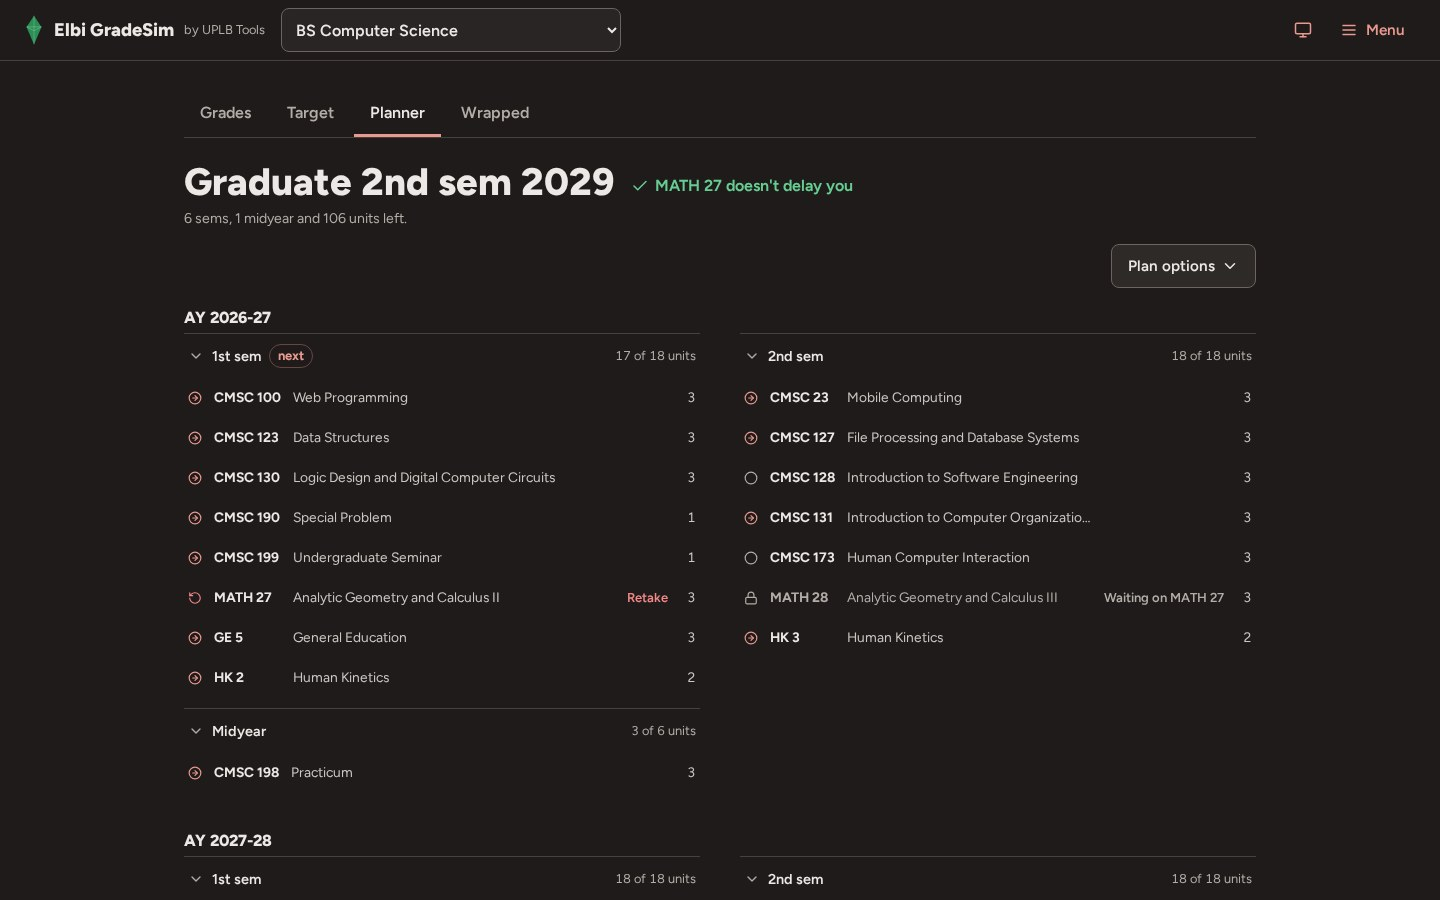
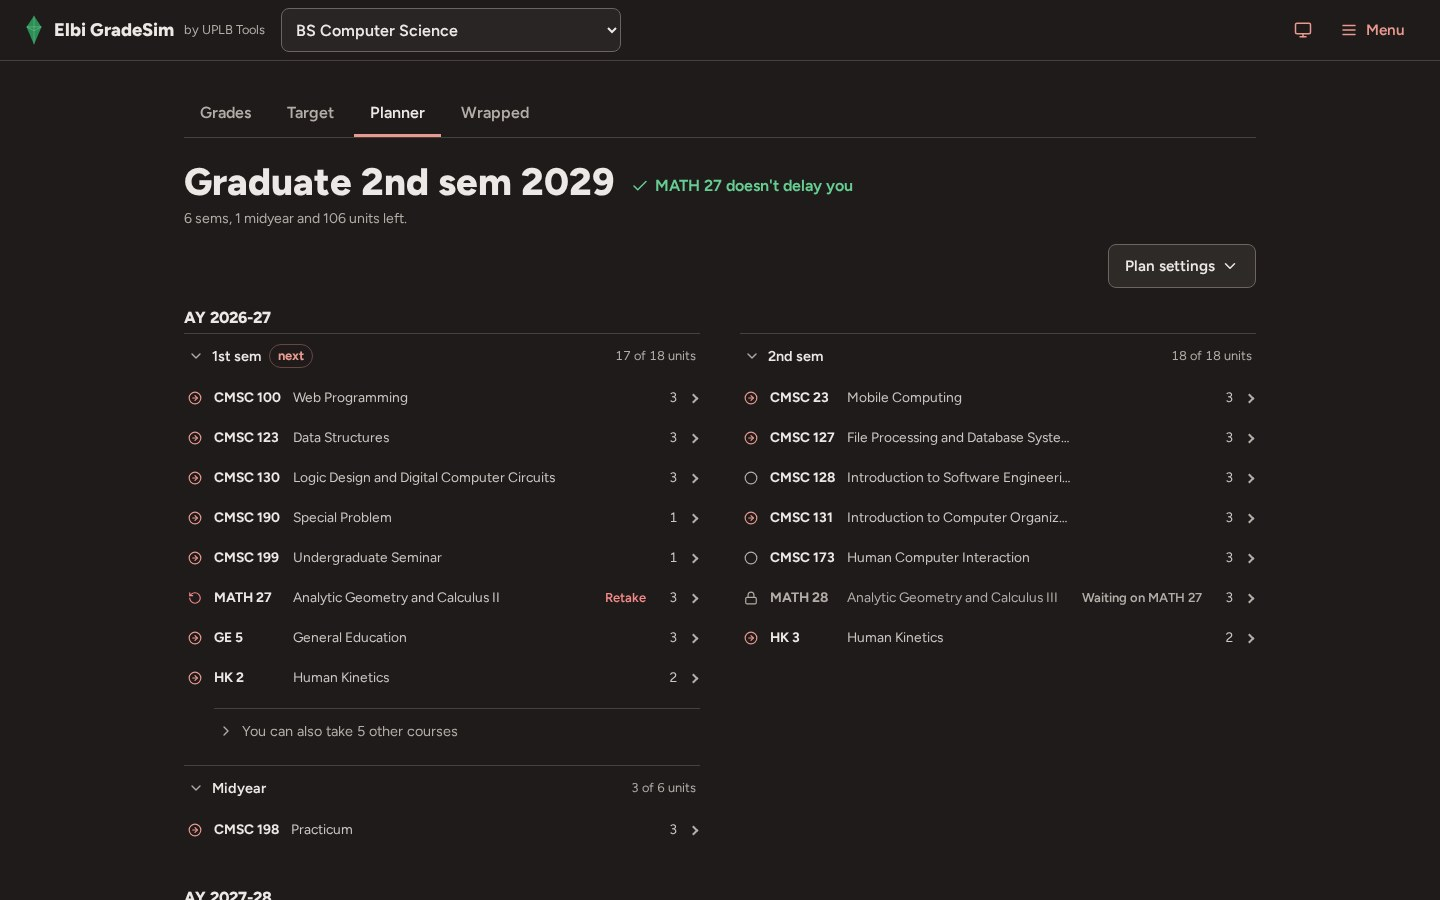
feat(welcome): a landing under the start buttons
- four sections show the Grades tab, the Target tab, the planner and a Wrapped card, each with a heading and one line
- the screenshots are phone-width crops, so they read on a phone and sit beside the text from 720px
- "Add my grades" at the end goes back to the start buttons
- the planner screenshots are retaken with the row chevrons

diff --git a/src/lib/components/Welcome.svelte b/src/lib/components/Welcome.svelte
@@ -23,7 +23,7 @@
 
 <div class="welcome wrap">
 	<div class="hero">
-		<div class="copy">
+		<div class="copy" id="start">
 			<h1>Your GWA, Latin honors and graduation plan</h1>
 			<p class="lede">GradeSim computes your GWA the way UPLB does and plans the sems you have left.</p>
 
@@ -75,6 +75,47 @@
 			<GradeEditor />
 		</section>
 	{/if}
+
+	<div class="features">
+		<section class="feature">
+			<div>
+				<h2>Your GWA, counted the UPLB way</h2>
+				<p>GradeSim weighs each grade by its units, leaves out HK and NSTP, and shows the GWA of every sem.</p>
+			</div>
+			<figure>
+				<ThemedShot name="grades-phone" alt="The Grades tab. The GWA is 1.9773, and the 1st sem of AY 2024-25 lists four courses with their grades." width={680} height={1040} />
+			</figure>
+		</section>
+		<section class="feature">
+			<div>
+				<h2>The grades you need for honors</h2>
+				<p>Pick summa, magna, cum laude or your own target. GradeSim tells you the average you need on the units you have left.</p>
+			</div>
+			<figure>
+				<ThemedShot name="target-phone" alt="The Target tab. Magna cum laude is picked, and the average needed on the 100 units left is 1.28." width={680} height={986} />
+			</figure>
+		</section>
+		<section class="feature">
+			<div>
+				<h2>A plan for the sems you have left</h2>
+				<p>The planner puts each course in the earliest sem its prerequisites and AMIS offerings allow. It shows what a failed course or a full section does to your graduation.</p>
+			</div>
+			<figure>
+				<ThemedShot name="planner-phone" alt="The planner. Graduation is the 2nd sem of 2029, and the next sem lists six courses with the retake of MATH 27." width={680} height={1222} />
+			</figure>
+		</section>
+		<section class="feature">
+			<div>
+				<h2>A card for your story</h2>
+				<p>Wrapped draws your GWA and your best sem on a card you can save and post.</p>
+			</div>
+			<figure>
+				<img class="card-shot" src="/screenshots/wrapped-card.jpg" alt="A Wrapped card. A tin on a picnic cloth holds an ID card and a GWA of 1.9773 with the words Honor roll." width="616" height="1095" loading="lazy" decoding="async" />
+			</figure>
+		</section>
+	</div>
+
+	<p class="again"><a class="btn btn-secondary btn-lg" href="#start">Add my grades</a></p>
 </div>
 
 <style>
@@ -176,6 +217,74 @@
 	@media (max-width: 719px) {
 		.shot {
 			display: none;
+		}
+	}
+
+	.features {
+		display: grid;
+		gap: 56px;
+		margin-top: 72px;
+	}
+
+	.feature {
+		display: grid;
+		gap: 20px;
+		align-items: center;
+	}
+
+	.feature h2 {
+		font-size: clamp(1.3rem, 1rem + 1.4vw, 1.75rem);
+		max-width: 22ch;
+		text-wrap: balance;
+	}
+
+	.feature p {
+		margin-top: 10px;
+		max-width: 46ch;
+	}
+
+	.feature figure {
+		margin: 0;
+		width: 100%;
+		max-width: 340px;
+	}
+
+	.card-shot {
+		display: block;
+		width: 100%;
+		height: auto;
+		border-radius: var(--radius-lg);
+	}
+
+	.again {
+		margin: 56px 0 24px;
+	}
+
+	.copy {
+		scroll-margin-top: 88px;
+	}
+
+	@media (min-width: 720px) {
+		.features {
+			gap: 88px;
+			margin-top: 104px;
+		}
+
+		.feature {
+			grid-template-columns: repeat(2, minmax(0, 1fr));
+			gap: 56px;
+		}
+
+		.feature figure {
+			justify-self: center;
+		}
+
+		.feature:nth-child(even) figure {
+			order: -1;
+		}
+
+		.again {
+			margin-top: 88px;
 		}
 	}
 

diff --git a/e2e/app.spec.ts b/e2e/app.spec.ts
@@ -20,6 +20,9 @@ test('first visit leads with the extension and offers two other ways in', async 
 	await expect(page.getByText('Your grades stay in this browser.')).toBeVisible();
 	await expect(page.locator('#main').getByRole('link', { name: 'Get the extension' })).toHaveAttribute('href', /install\/$/);
 	await expect(page.getByRole('button', { name: 'Load backup' })).toBeVisible();
+	await expect(page.getByRole('heading', { name: 'A plan for the sems you have left' })).toBeVisible();
+	await page.getByRole('link', { name: 'Add my grades' }).click();
+	await expect(page.getByRole('heading', { level: 1 })).toBeInViewport();
 	await expect(page.getByRole('button', { name: 'Enter grades by hand' })).toBeVisible();
 });
 
